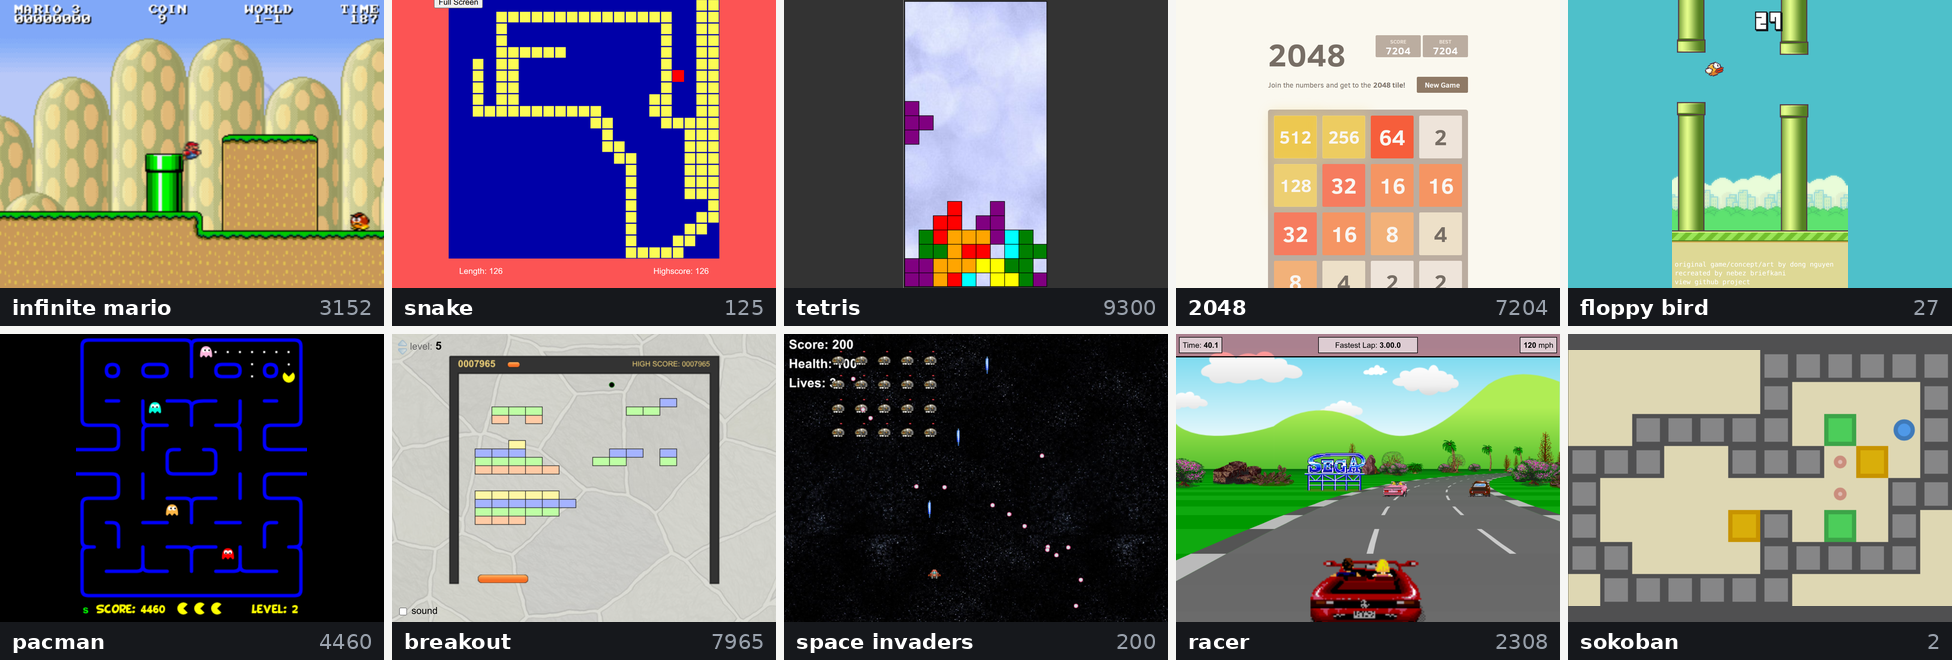
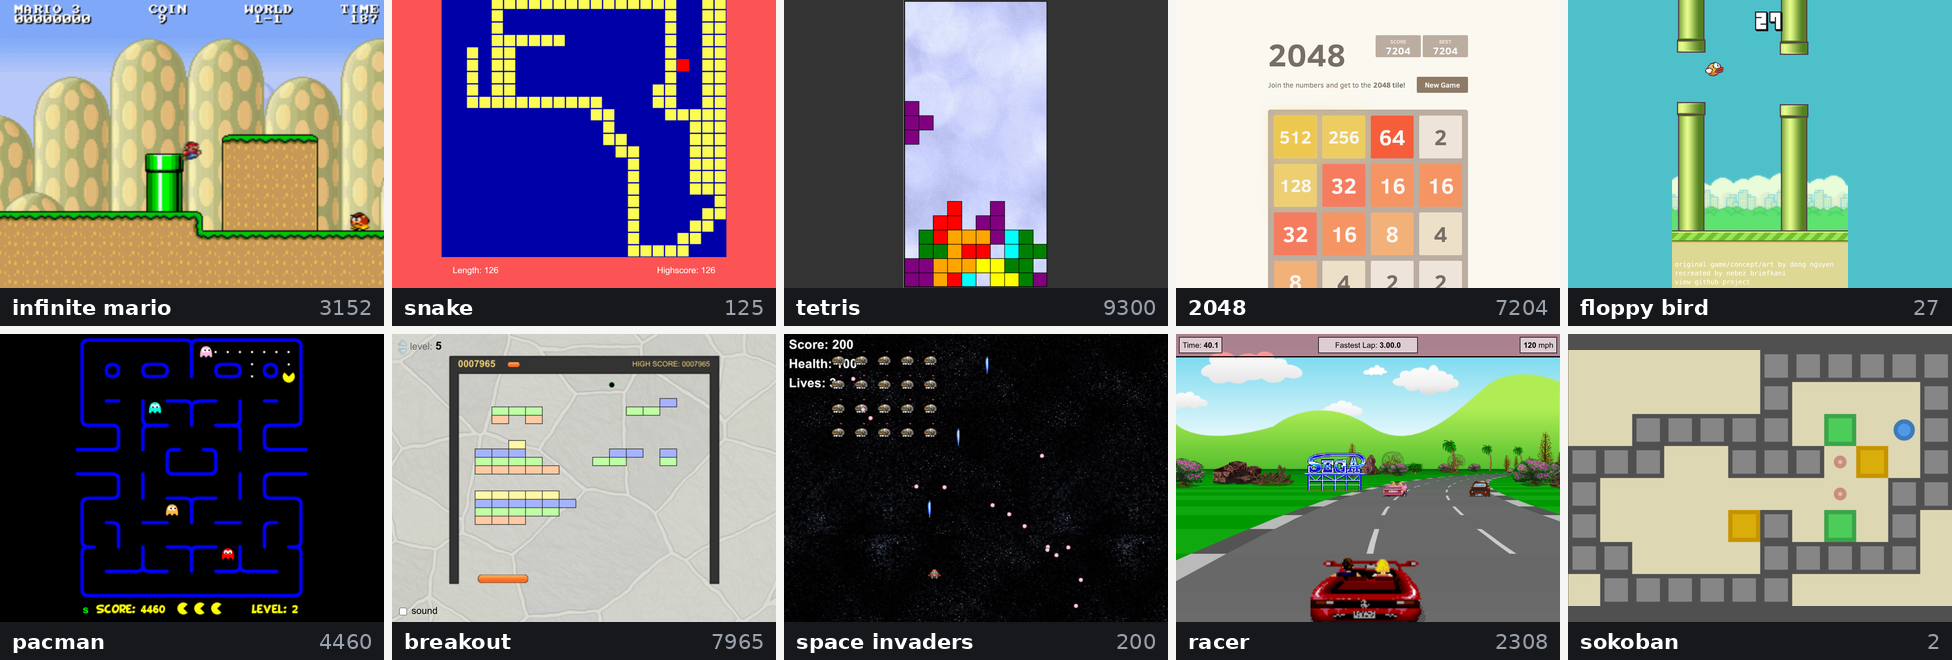
figs: crop the snake page chrome out of the board

Changed region(s): [[0.2188, 0.0, 0.375, 0.4242]]

diff --git a/scripts/readme_figs.py b/scripts/readme_figs.py
@@ -26,7 +26,7 @@ GAMES = [
     ("2048",     "2048",           "7204",   (0.12, 0.06, 0.13)),
 ]
 # fractional crop, to keep page furniture (theme pickers, how-to-play copy) out of the board
-CROP = {"snake": (0, .06, 1, 1), "2048": (0, 0, 1, .80)}
+CROP = {"snake": (0, .105, 1, 1), "2048": (0, 0, 1, .80)}
 BOARD_ORDER = ["mario", "snake", "tetris", "2048", "flappy", "pacman", "breakout", "invaders", "racer", "sokoban"]
 
 
